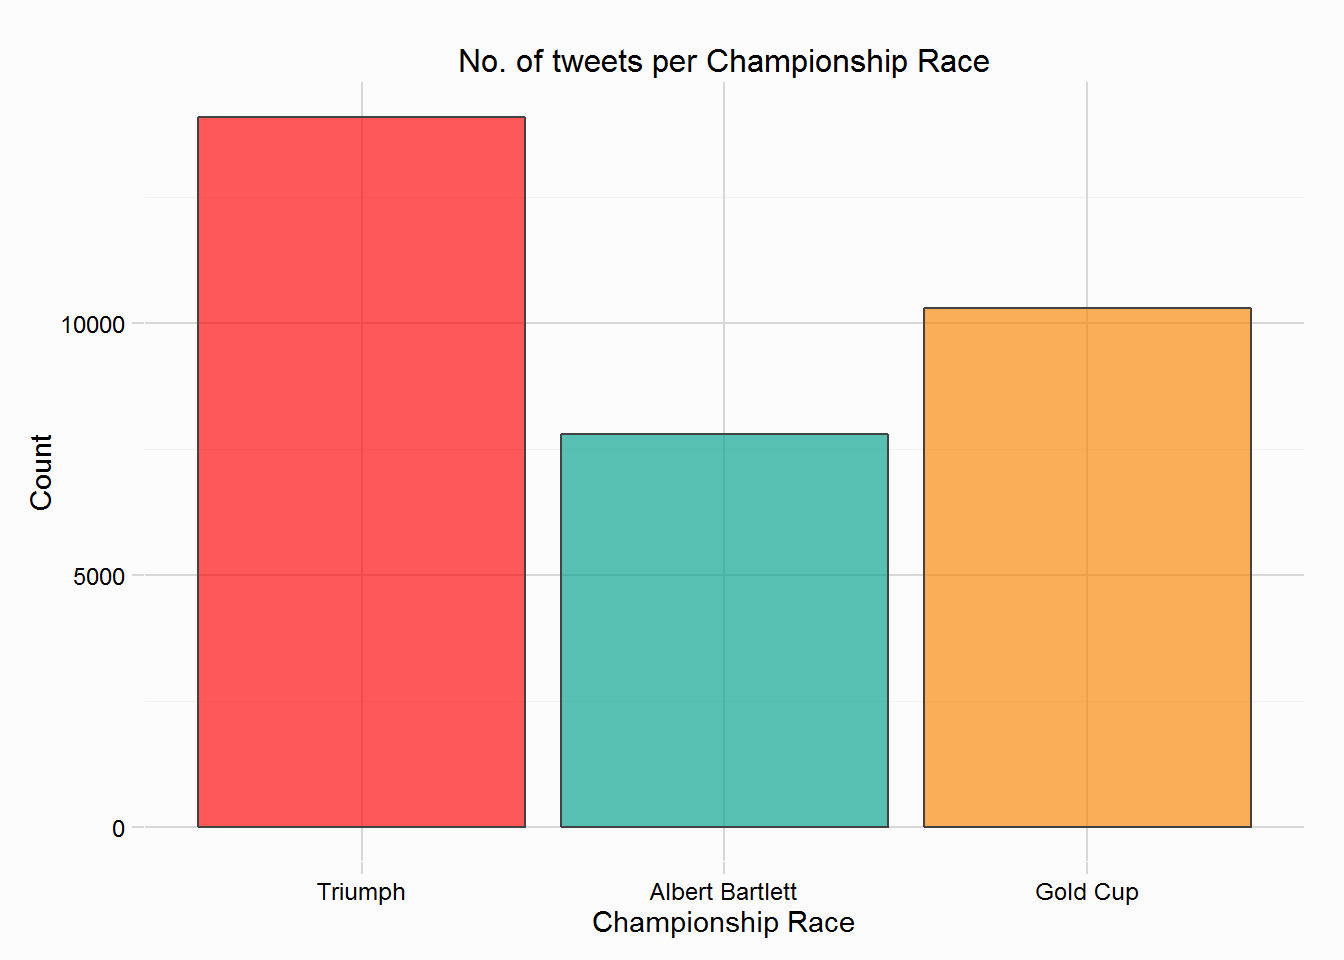
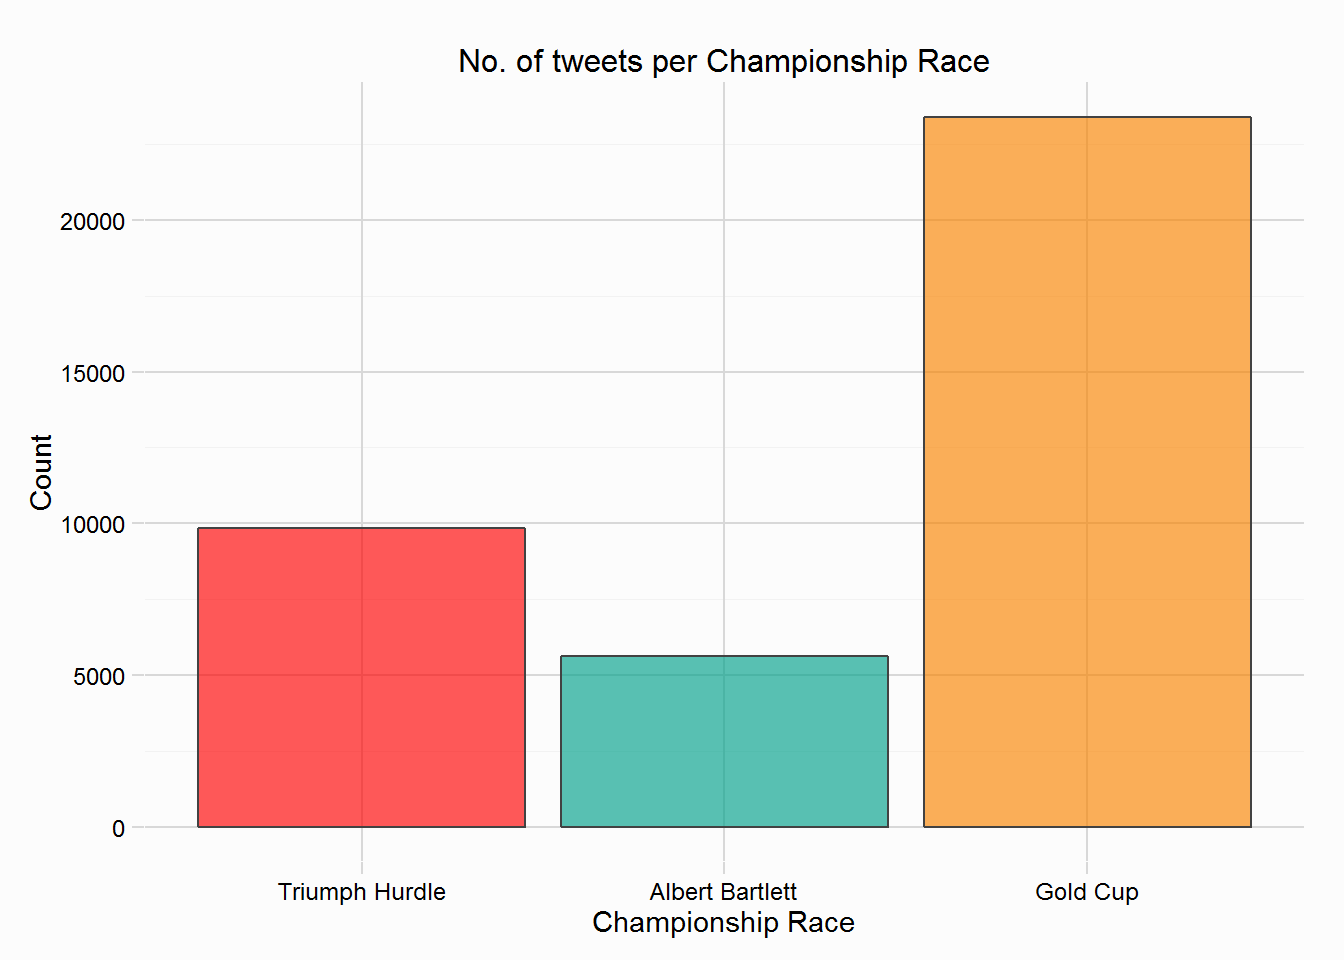
update day four

diff --git a/day_four.html b/day_four.html
@@ -187,7 +187,7 @@ img {
 </div>
 <div id="races-and-runners" class="section level3">
 <h3>races and runners</h3>
-<p>The two plots below shows the number of tweets that mention a runner from each Championship race, and the most mentioned horses. The most tweeted about race on Day Four was the Gold Cup, with 10294 tweets.</p>
+<p>The two plots below shows the number of tweets that mention a runner from each Championship race, and the most mentioned horses. The most tweeted about race on Day Four was the Gold Cup, with 23400.</p>
 <div class="row">
 <div class="col-md-6">
 <p><img src="day_four_files/figure-html/unnamed-chunk-5-1.png" title="" alt="" width="550px" height="400px" style="display: block; margin: auto;" /></p>
